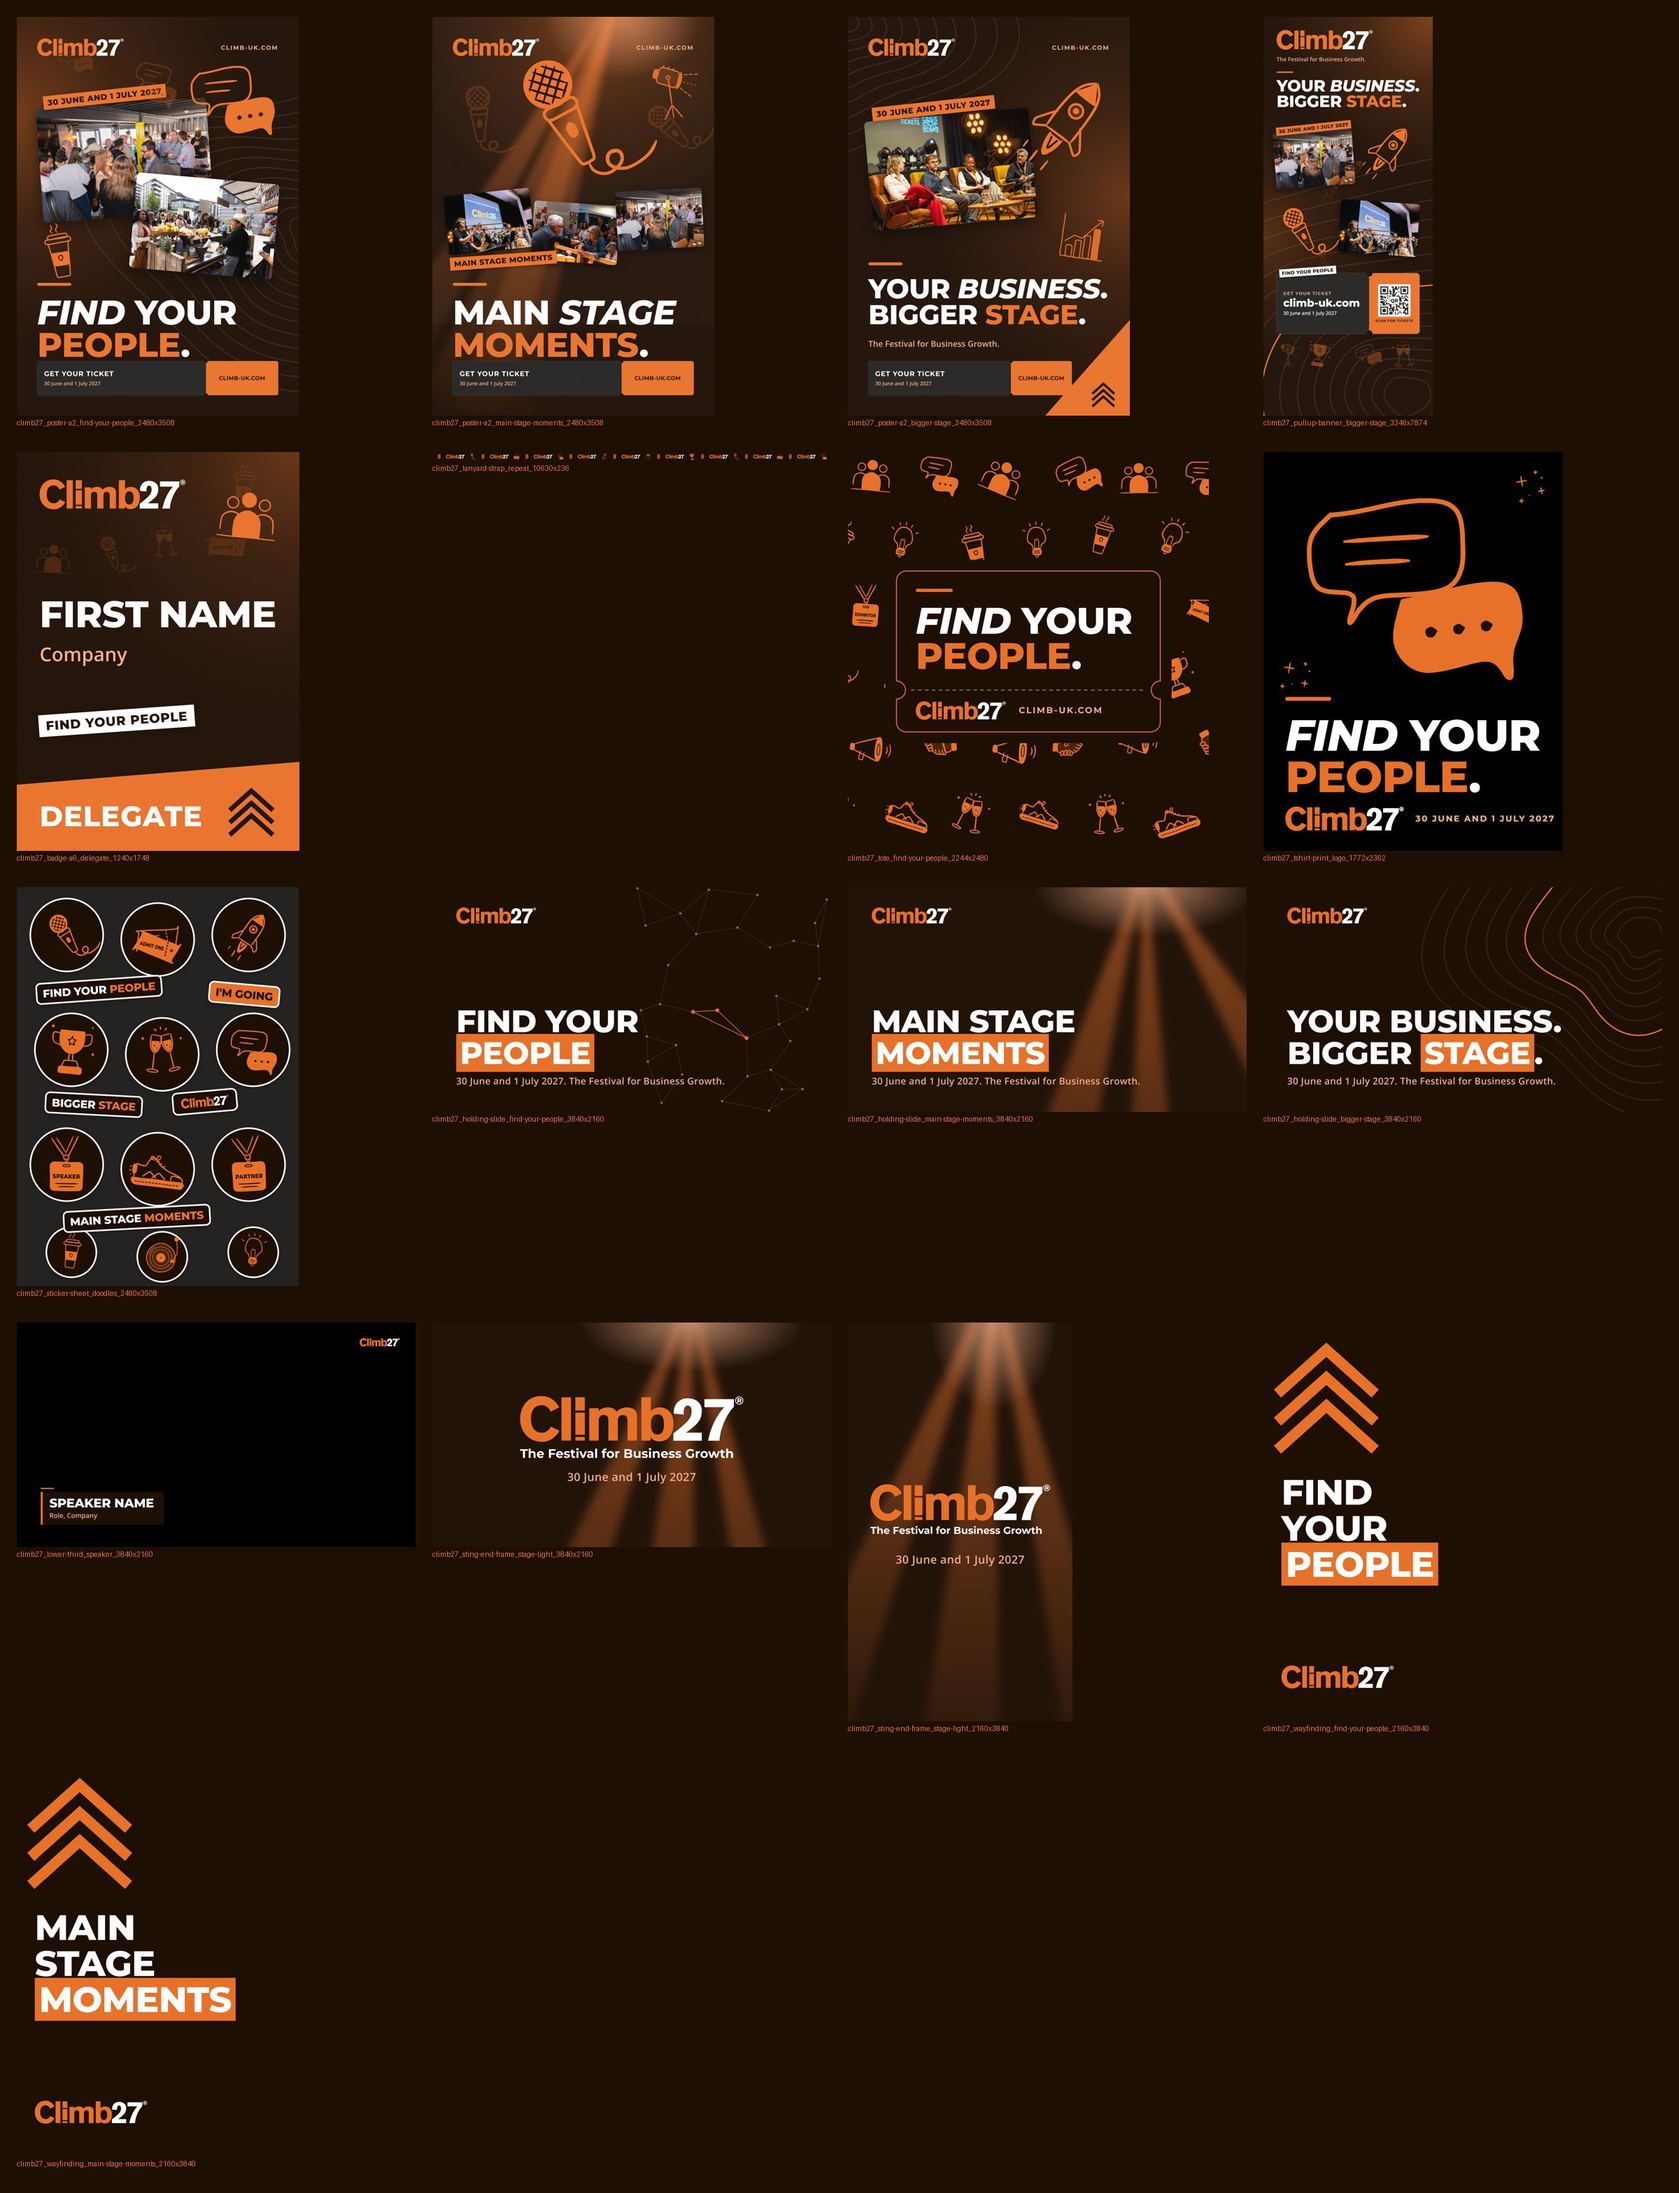
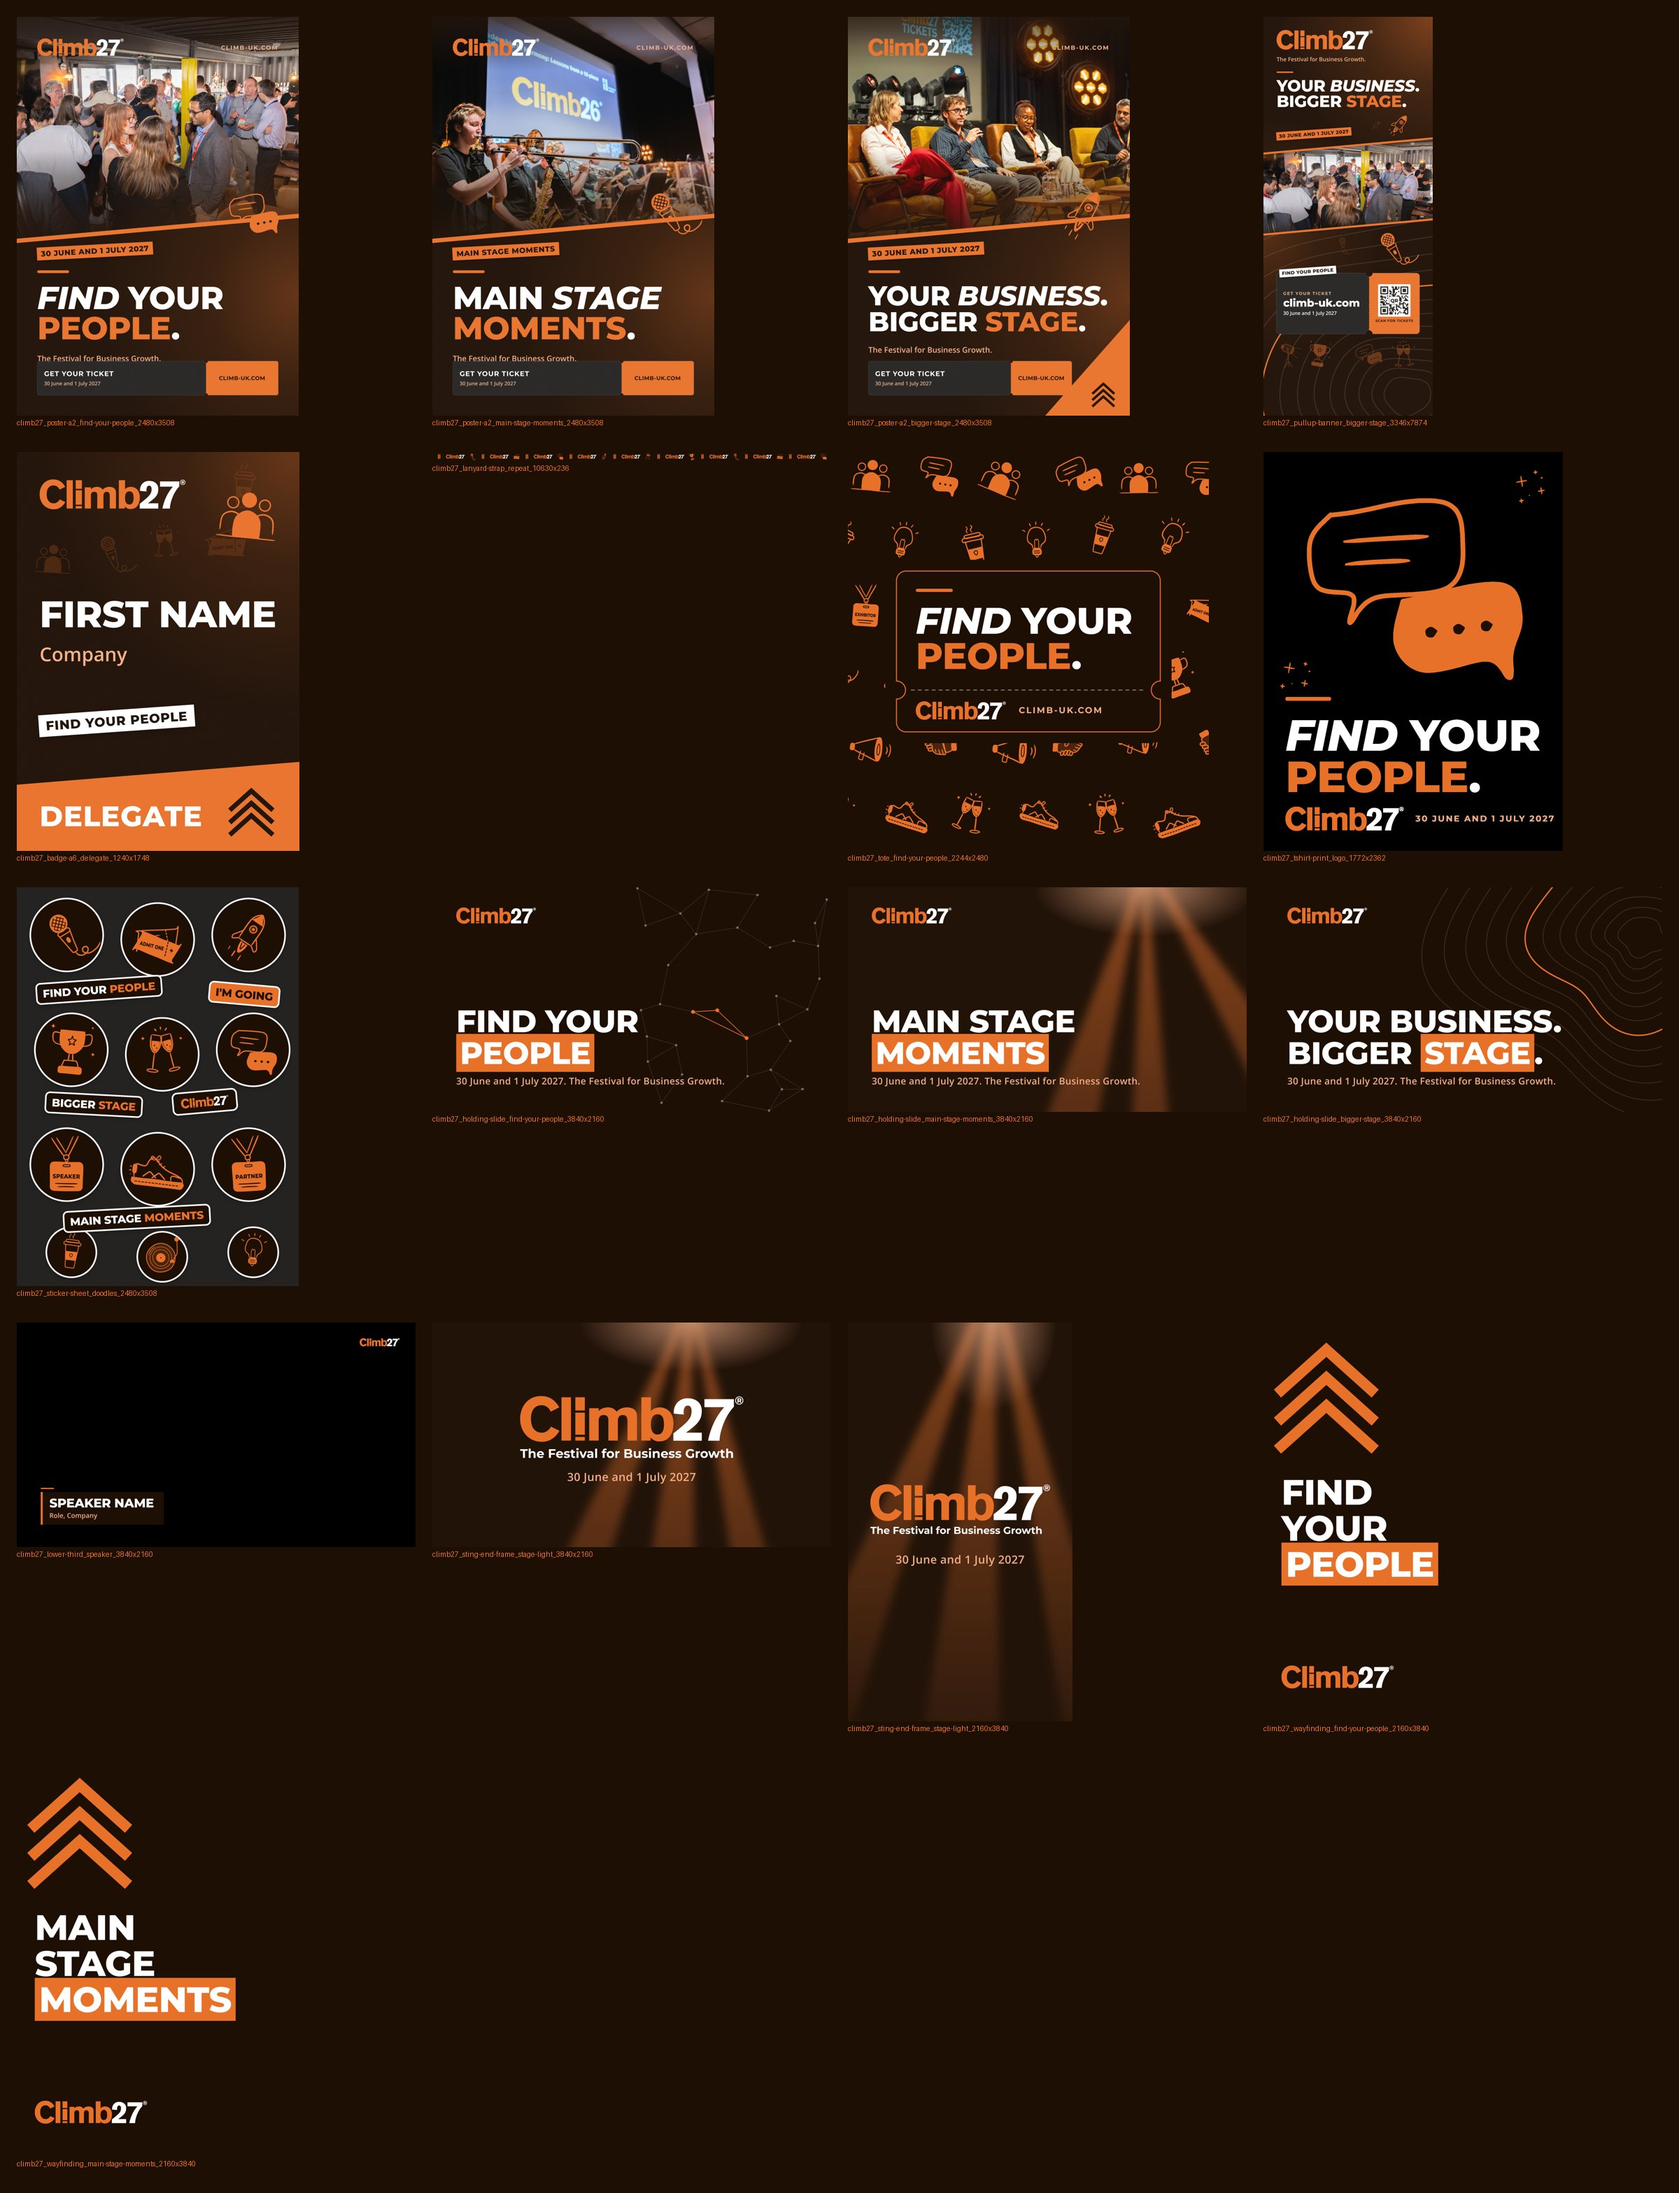
fix(photos): replace the last tilted photo cards with walls and cut bands
Desktop wallpapers get a slanted photo wall off the right edge, phone
wallpapers a photo band cut on the diagonal between clock and dock, A2
posters the full bleed photo ending on an orange slab like the posts, and
the pull-up a cut band with slabs. Drawings and stickers sit on the
ground, never on a face. Adds photo_wall() and cut_band() helpers.

diff --git a/generators/poster_kit.py b/generators/poster_kit.py
@@ -193,6 +193,34 @@ def slab_poly(points, colour=OR, extra=""):
     return ('<div class="abs" style="left:%.0fpx;top:%.0fpx;width:%.0fpx;height:%.0fpx;background:%s;clip-path:polygon(%s);%s"></div>'
             % (x0, y0, x1 - x0, y1 - y0, colour, poly, extra))
 
+def photo_wall(K, photos, x0, h, tw, skew, gap, fade_css, duo=False):
+    """Slanted full height photo tiles from x0 to the right, each leaning like the X header wall. Photos are part
+    of the layout (run off an edge, cut on the slant), never cards laid on the ground."""
+    out = []
+    for k, ph in enumerate(photos):
+        x = x0 + k * (tw + gap)
+        poly = [(x + skew, 0), (x + skew + tw, 0), (x + tw, h), (x, h)]
+        out.append('<div class="abs" style="left:%.0fpx;top:0;width:%.0fpx;height:%.0fpx;clip-path:polygon(%s)">%s</div>'
+                   % (x, tw + skew, h, ",".join("%.0fpx %.0fpx" % (a - x, b) for a, b in poly),
+                      K.pic(ph, 0, 0, tw + skew, h, pos="center 35%", duo=duo, fade=fade_css)))
+    return "".join(out)
+
+
+def cut_band(K, photo, w, top, bottom, pos="center 35%", slab=OR, thick=18, fade_css=None):
+    """A full width photo band cut on a diagonal at the top and the bottom: top and bottom are (y left, y right).
+    An orange slab runs along each cut, so the photo reads as a panel of the layout."""
+    y0 = min(top)
+    y1 = max(bottom)
+    clip = "polygon(0 %dpx,%dpx %dpx,%dpx %dpx,0 %dpx)" % (top[0] - y0, w, top[1] - y0, w, bottom[1] - y0, bottom[0] - y0)
+    fade_css = fade_css or ("linear-gradient(to bottom, rgba(%s,.35) 0%%, rgba(%s,0) 25%%, rgba(%s,0) 70%%, rgba(%s,.6) 100%%)"
+                            % (DB_RGB, DB_RGB, DB_RGB, DB_RGB))
+    out = ['<div class="abs" style="left:0;top:%dpx;width:%dpx;height:%dpx;clip-path:%s">%s</div>'
+           % (y0, w, y1 - y0, clip, K.pic(photo, 0, 0, w, y1 - y0, pos=pos, fade=fade_css))]
+    for yl, yr in (top, bottom):
+        out.append(slab_poly([(0, yl - thick / 2), (w, yr - thick / 2), (w, yr + thick / 2), (0, yl + thick / 2)], slab))
+    return "".join(out)
+
+
 
 def chevrons(x, y, size, steps=3, colour=DB, w=None, h=None):
     return F.svg(w, h, M.ascent(w, h, x, y, size, steps=steps, colour=colour, kind="chevrons"), "pointer-events:none")
@@ -337,14 +365,15 @@ def desktop(C, brand, i, motif, w, h):
         p.append(K.pic(B["photos"][0], w * 0.3, 0, w * 0.7, h, pos="center 35%", duo=True, blur=10 * u,
                        fade=fade("to left", 10, 95, 0.0, 1)))
         p.append(glow(w, h, w, 0, w * 0.55, 0.5))
-        cw = w * 0.3
-        p.append(K.pic(B["photos"][1], w * 0.47, h * 0.14, cw, cw * 0.62, pos="center 40%", rot=-4, radius=14 * u,
-                       shadow=True))
-        cw2 = w * 0.24
-        p.append(K.pic(B["photos"][2], w * 0.66, h * 0.45, cw2, cw2 * 0.66, pos="center 35%", rot=5, radius=14 * u,
-                       shadow=True))
-        p.append(sticker(B["sticker"], w * 0.455, h * 0.115, 30 * u, rot=-6))
-        p.append(hero(B["heroes"][0], w * 0.565, h * 0.56, w * 0.13, rot=-6,
+        # a slanted photo wall runs off the right edge; the sticker and the drawing stay on the ground beside it
+        tw, skew = w * 0.15, w * 0.08
+        x0 = w * 0.55
+        p.append(photo_wall(K, B["photos"][1:4], x0, h, tw, skew, 12 * u,
+                            "linear-gradient(to bottom, rgba(%s,.2) 0%%, rgba(%s,0) 30%%, rgba(%s,0) 62%%, rgba(%s,1) 86%%)"
+                            % (DB_RGB, DB_RGB, DB_RGB, DB_RGB)))
+        p.append(slab_poly([(x0 - 30 * u, h), (x0 - 30 * u + skew, 0), (x0 - 8 * u + skew, 0), (x0 - 8 * u, h)], OR))
+        p.append(sticker(B["sticker"], w * 0.34, h * 0.2, 30 * u, rot=-6))
+        p.append(hero(B["heroes"][0], w * 0.36, h * 0.5, w * 0.13, rot=-6,
                       ghosts=[(-0.65, -0.2, 0.7, 14, 0.25), (-1.05, 0.35, 0.5, -18, 0.16)]))
         copy.append(B["sticker"])
     elif motif == "contours":  # type led
@@ -401,10 +430,11 @@ def phone(C, brand, i, motif, w, h):
                        fade="linear-gradient(to bottom, rgba(%s,1) 0%%, rgba(%s,.2) 30%%, rgba(%s,.5) 75%%, rgba(%s,1) 100%%)"
                        % (DB_RGB, DB_RGB, DB_RGB, DB_RGB)))
         p.append(glow(w, h, w, h * 0.22, w * 0.9, 0.4))
-        p.append(K.pic(B["photos"][1], w * 0.08, h * 0.31, w * 0.76, w * 0.5, pos="center 40%", rot=-5, radius=18 * u, shadow=True))
-        p.append(K.pic(B["photos"][2], w * 0.26, h * 0.5, w * 0.66, w * 0.44, pos="center 35%", rot=5, radius=18 * u, shadow=True))
-        p.append(sticker(B["sticker"], w * 0.06, h * 0.293, 40 * u, rot=-6))
-        p.append(hero(B["heroes"][0], w * 0.04, h * 0.6, w * 0.34, rot=-8, ghosts=[(1.9, -0.95, 0.45, 18, 0.2)]))
+        # one photo band cut on the diagonal between the clock and the dock, slabs along both cuts
+        d = w * 0.14
+        p.append(cut_band(K, B["photos"][1], w, (h * 0.33 + d, h * 0.33), (h * 0.56 + d, h * 0.56), thick=16 * u))
+        p.append(sticker(B["sticker"], w * 0.06, h * 0.275, 40 * u, rot=-6))
+        p.append(hero(B["heroes"][0], w * 0.56, h * 0.6, w * 0.3, rot=-8, ghosts=[(-1.3, 0.1, 0.45, 18, 0.2)]))
         copy.append(B["sticker"])
     elif motif == "contours":
         p.append(F.svg(w, h, M.contours(w, h, seed=31, rings=12, dark=True, marker=True, cx=0.9, cy=0.92)))
@@ -716,38 +746,21 @@ def poster(C, key):
     K = Kit(C, name)
     m = 180
     p = []
-    if key == "find-your-people":
-        p += [F.svg(w, h, M.contours(w, h, seed=53, rings=12, dark=True, marker=False, cx=1.05, cy=0.55)),
-              glow(w, h, 0, h * 0.25, w * 0.8, 0.4),
-              K.pic(P["photo"], 200, 760, 1500, 1000, pos="center 30%", rot=-4, radius=36, shadow=True),
-              K.pic(P["photo2"], 1020, 1420, 1260, 840, pos="center", rot=5, radius=36, shadow=True),
-              sticker(C.DATES, 240, 700, 70, rot=-6),
-              hero(P["hero"], 1460, 300, 860, rot=-6, ghosts=[(-0.55, 0.05, 0.55, 16, 0.25), (-1.3, -0.12, 0.4, -12, 0.16)]),
-              I.place("coffee", 120, 1820, 520, rotate=-10, seed=2)]
-        ty = 2340
-    elif key == "main-stage-moments":
-        p += [F.svg(w, h, M.stage_light(w, h * 0.7, seed=5, uid="psl")),
-              glow(w, h, w * 0.6, 0, w * 0.7, 0.45)]
-        for k, (ph, x, y, r) in enumerate((("climb_band_stage", 120, 1540, -6), ("climb_awards_trophies", 880, 1640, 4),
-                                           ("climb_crowd_wide", 1620, 1520, -3))):
-            p.append(K.pic(ph, x, y, 760, 520, pos="center 35%", rot=r, radius=26, shadow=True))
-        p.append(hero("microphone", 520, 200, 1350, rot=-4, ghosts=[(-0.32, 0.25, 0.5, 20, 0.2), (0.95, 0.35, 0.45, -20, 0.18)]))
-        p.append(I.place("spotlight", 1800, 360, 560, rotate=-8, opacity=0.9, seed=4))
-        p.append(sticker("Main stage moments", 160, 2120, 66, rot=-4))
-        ty = 2340
-    else:
+    # the photo runs full bleed from the top and ends on an orange diagonal slab, as on the posts; the dates and
+    # the drawing sit under the slab, so nothing lands on a face
+    yl, yr = 1960, 1740
+    p += [_cut_photo(K, P["photo"], w, yl, yl, yr, "center 30%"),
+          slab_poly([(0, yl - 8), (w, yr - 8), (w, yr + 30), (0, yl + 30)], OR),
+          glow(w, h, w, h * 0.7, w * 0.7, 0.32)]
+    if key == "bigger-stage":
         p += [slab_poly([(w * 0.7, h), (w, h * 0.76), (w, h)], OR),
-              chevrons(w * 0.87, h * 0.975, w * 0.09, steps=3, colour=DB, w=w, h=h),
-              F.svg(w, h, M.contours(w, h, seed=55, rings=10, dark=True, marker=False, cx=-0.05, cy=0.0)),
-              glow(w, h, w, h * 0.45, w * 0.7, 0.35),
-              K.pic(P["photo"], 180, 860, 1450, 966, pos="center 40%", rot=-5, radius=36, shadow=True),
-              sticker(C.DATES, 220, 800, 70, rot=-6),
-              hero("rocket", 1420, 420, 1000, rot=0, ghosts=[(-0.32, 0.55, 0.5, 8, 0.25), (-0.6, 0.98, 0.34, 14, 0.15)]),
-              I.place("chart", 1820, 1700, 480, rotate=8, opacity=0.9, seed=3)]
-        ty = 2160
+              chevrons(w * 0.87, h * 0.975, w * 0.09, steps=3, colour=DB, w=w, h=h)]
+    p.append(sticker(C.DATES if key != "main-stage-moments" else "Main stage moments", m, yl + 70, 66, rot=-3))
+    p.append(hero(P["hero"], 1830, yr - 260, 500, rot=-8, ghosts=[(-0.7, 0.25, 0.5, 16, 0.2)]))
+    ty = 2230
     p.append(F.logo_img(C, "Climb27", "reversed-dark", m, 190, 760))
     p.append('<div class="abs lab" style="right:%dpx;top:240px;font-size:52px;color:#F2AE86">%s</div>' % (m, URL))
-    p.append(head(P["lines"], m, ty, 300, w - 2 * m, rule_on=True, sub=C.TAGLINE + ".", sub_size=72))
+    p.append(head(P["lines"], m, ty, 280, w - 2 * m, rule_on=True, sub=C.TAGLINE + ".", sub_size=68))
     tw = w - 2 * m - (330 if key == "bigger-stage" else 0)
     p.append(foot_ticket(C, m, h - m - 300, tw, 300, "pf"))
     p.append(F.grain_layer(w, h, 53, 0.07))
@@ -767,11 +780,12 @@ def pullup(C):
     p.append(F.logo_img(C, "Climb27", "reversed-dark", m, 260, 1900))
     p.append('<div class="abs body" style="left:%dpx;top:760px;font-size:110px;color:#F2AE86">%s.</div>' % (m, C.TAGLINE))
     p.append(head(["Your *business*.", "Bigger [[stage]]."], m, 1080, 330, w - 2 * m, rule_on=True))
-    p.append(K.pic("climb_crowd_wide", m - 40, 2250, 1560, 1100, pos="center 40%", rot=-4, radius=48, shadow=True))
-    p.append(K.pic("climb_band_stage", 1500, 3650, 1560, 1040, pos="center", rot=4, radius=48, shadow=True))
-    p.append(sticker(C.DATES, m, 2190, 96, rot=-6))
-    p.append(hero("rocket", 1800, 2000, 1300, ghosts=[(-0.3, 0.55, 0.5, 8, 0.22), (-0.55, 0.95, 0.35, 14, 0.14)]))
-    p.append(hero("microphone", 140, 3600, 1250, rot=-6, ghosts=[(0.62, 0.66, 0.42, 18, 0.2)]))
+    # one full width photo band cut on the diagonal, slabs along both cuts; the drawings sit on the ground
+    # around it, so nothing lands on a face
+    p.append(cut_band(K, "climb_crowd_wide", w, (2700, 2400), (4300, 4000), pos="center 40%", thick=40))
+    p.append(sticker(C.DATES, m, 2280, 96, rot=-4))
+    p.append(hero("rocket", 2420, 1870, 520, rot=0, ghosts=[(-0.6, 0.3, 0.45, 8, 0.2)]))
+    p.append(hero("microphone", 2150, 4150, 850, rot=-6, ghosts=[(-0.9, 0.2, 0.45, 18, 0.2)]))
     ty, th = 5060, 1200
     main = ('<div class="lab" style="font-size:84px;color:#F2AE86">Get your ticket</div>'
             '<div class="disp" style="font-size:210px;margin:30px 0 34px;text-transform:none">%s</div>'
